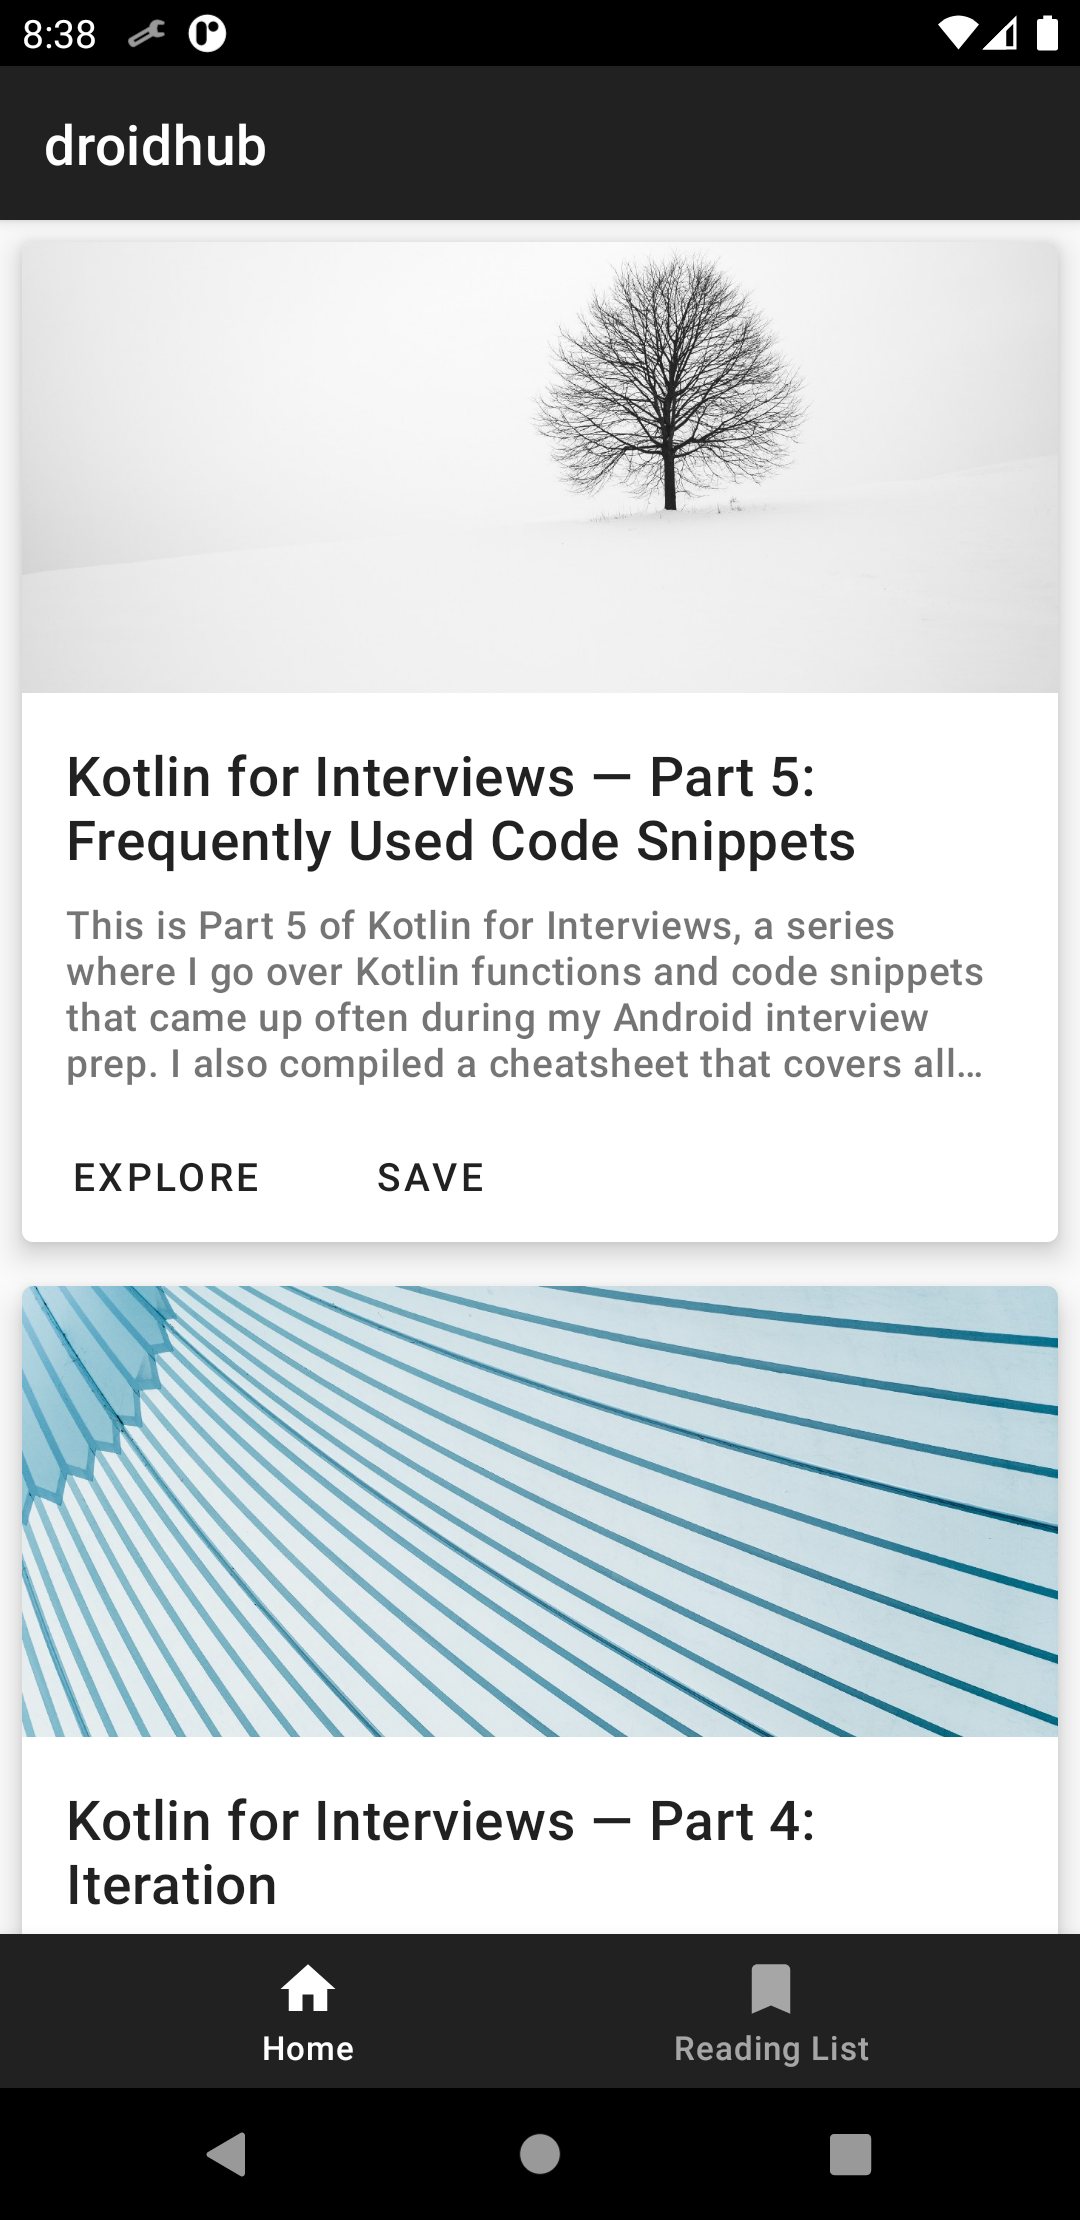
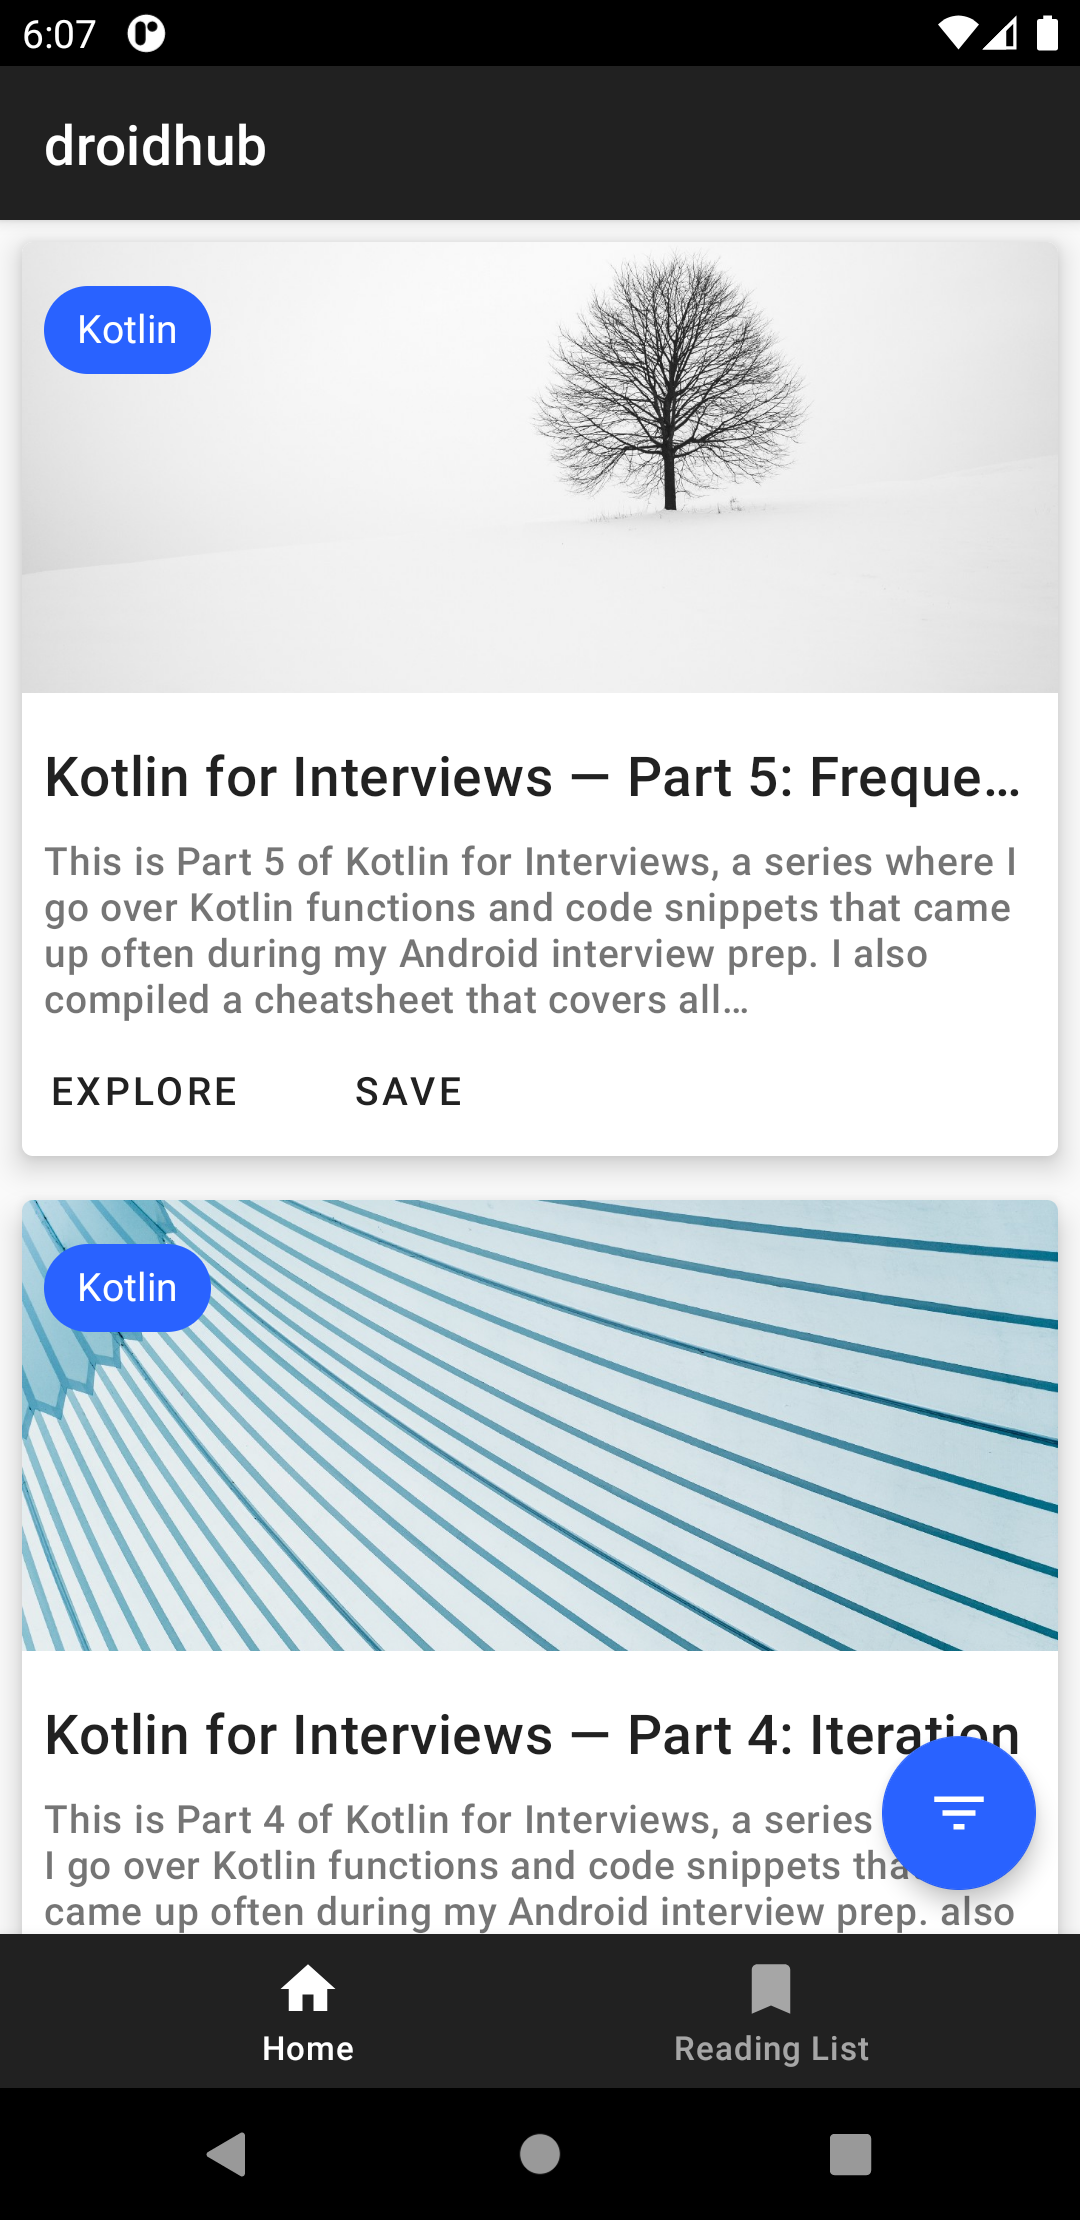
update homepage & filters collections

diff --git a/app/src/main/java/co/icanteach/apps/android/droidhub/data/repository/DroidFeedsRepository.kt b/app/src/main/java/co/icanteach/apps/android/droidhub/data/repository/DroidFeedsRepository.kt
@@ -4,6 +4,7 @@ import co.icanteach.apps.android.droidhub.core.Resource
 import co.icanteach.apps.android.droidhub.data.IoDispatcher
 import co.icanteach.apps.android.droidhub.data.repository.model.FeedDocumentResponse
 import co.icanteach.apps.android.droidhub.data.repository.model.FilterResponse
+import co.icanteach.apps.android.droidhub.data.repository.model.NewsResponse
 import com.google.firebase.firestore.FirebaseFirestore
 import kotlinx.coroutines.CoroutineDispatcher
 import kotlinx.coroutines.flow.catch
@@ -13,41 +14,38 @@ import kotlinx.coroutines.tasks.await
 import javax.inject.Inject
 
 
-private const val HOME_FEED_COLLECTION_PATH = "home-feed"
-private const val MAIN_FEED_DOCUMENT_PATH = "main-feed"
-private const val DROIDHUB_FILTERS_DOCUMENT_PATH = "droidhub-filters"
-
-
 class DroidFeedsRepository @Inject constructor(
     private val firestore: FirebaseFirestore,
     @IoDispatcher val dispatcher: CoroutineDispatcher
 ) {
 
-    private val mPostsCollection =
-        firestore.collection(HOME_FEED_COLLECTION_PATH)
 
     fun fetchHomeFeed() = flow {
 
+        val homeFeedCollection = firestore.collection("home-feed")
         // Emit loading state
         emit(Resource.Loading)
 
-        val snapshot = mPostsCollection.document(MAIN_FEED_DOCUMENT_PATH).get().await()
-        val homeFeed = snapshot.toObject(FeedDocumentResponse::class.java)
+        val snapshot = homeFeedCollection.get().await()
+
+        val homeFeed = snapshot.documents.mapNotNull {
+            it.toObject(NewsResponse::class.java)
+        }
 
         // Emit success state with data
-        homeFeed?.let {
-            emit(Resource.Success(homeFeed.contents))
-        }
+        emit(Resource.Success(homeFeed))
     }.catch { exception ->
         emit(Resource.Error(exception))
     }.flowOn(dispatcher)
 
     fun fetchFilters() = flow {
 
+        val filtersCollection = firestore.collection("droidhub-filters")
+
         // Emit loading state
         emit(Resource.Loading)
 
-        val snapshot = mPostsCollection.document(DROIDHUB_FILTERS_DOCUMENT_PATH).get().await()
+        val snapshot = filtersCollection.document("droidhub-main-filters").get().await()
         val filters = snapshot.toObject(FilterResponse::class.java)
 
         // Emit success state with data

diff --git a/app/src/main/java/co/icanteach/apps/android/droidhub/home/domain/FetchFiltersUseCase.kt b/app/src/main/java/co/icanteach/apps/android/droidhub/home/domain/FetchFiltersUseCase.kt
@@ -17,7 +17,7 @@ class FetchFiltersUseCase @Inject constructor(
             .fetchFilters()
             .map {
                 it.map { response ->
-                    response.filters
+                    response.filters.sorted()
                 }
             }
     }
